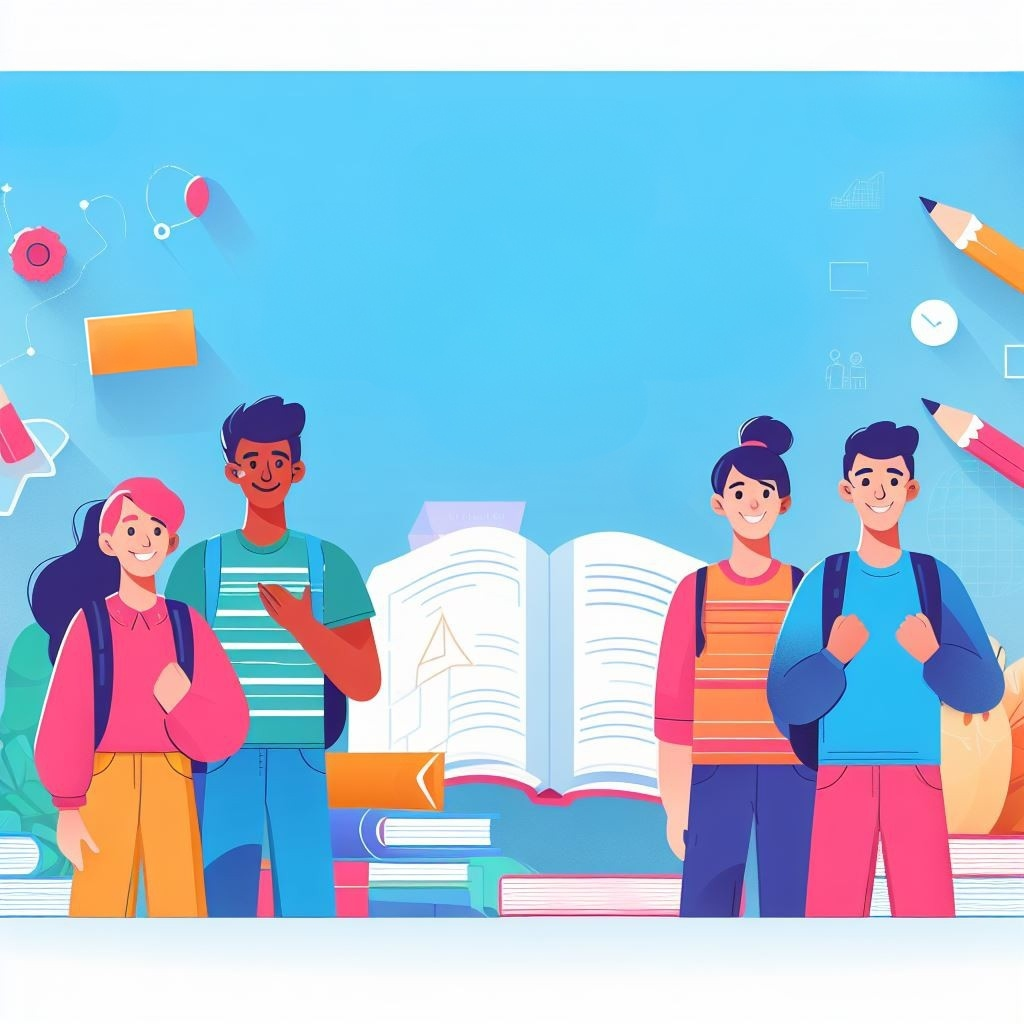
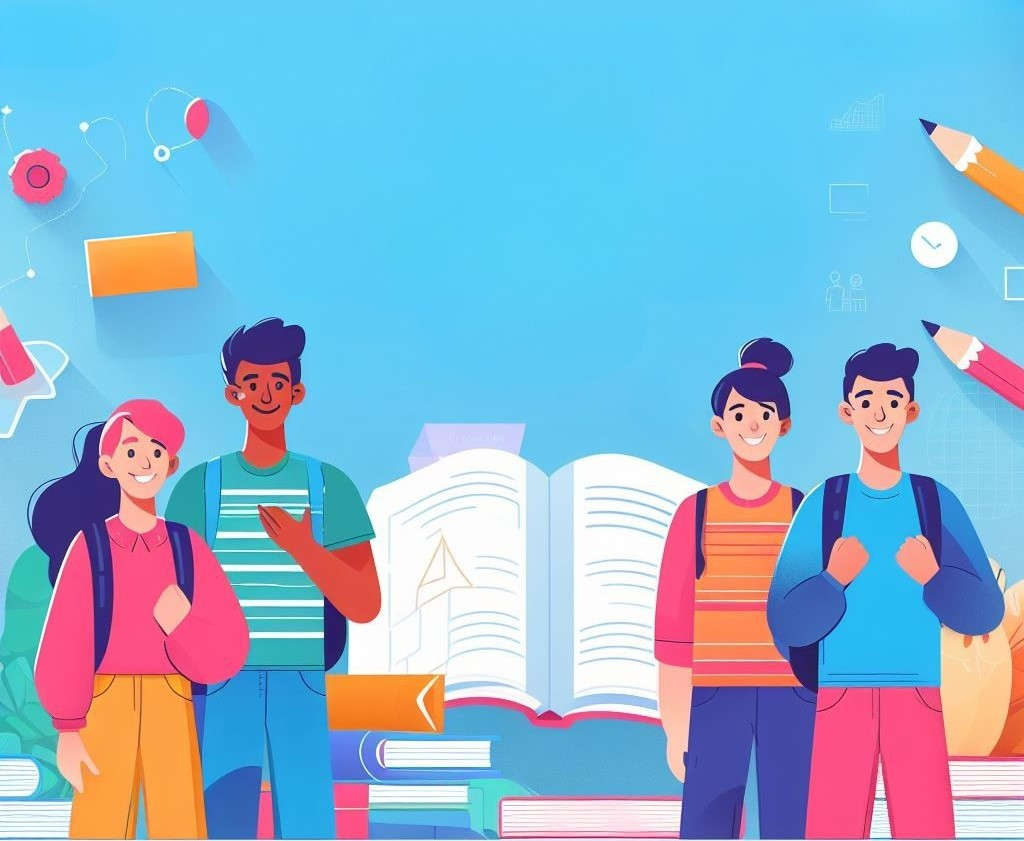
Created landing page

diff --git a/src/components/Home.jsx b/src/components/Home.jsx
@@ -1,0 +1,18 @@
+import home from '/images/home.jpg';
+
+const Home = () => {
+    return (
+        <div className="relative h-screen">
+
+            <img src={home} alt="home" className="absolute top-0 left-0 w-full h-full object-fill" />
+
+            <div className="absolute top-1/4 left-1/2 transform -translate-x-1/2 -translate-y-1/2 flex flex-col items-center text-center">
+                <h1 className="text-4xl md:text-5xl lg:text-6xl text-white font-extrabold">Study Streak</h1>
+                <p className="text-base md:text-lg lg:text-xl text-white font-medium mt-2">Your personal assistant for tracking and improving daily study habits</p>
+                <button className="text-base md:text-lg lg:text-xl text-white bg-rose-500 hover:bg-rose-600 py-2 px-4 rounded-3xl mt-4 font-medium">Get started</button>
+            </div>
+        </div>
+    );
+}
+
+export default Home;

diff --git a/src/App.jsx b/src/App.jsx
@@ -1,10 +1,11 @@
+import Home from './components/Home'
 import './index.css'
 
 function App() {
   
   return (
     <>
-      <h1>React App</h1>
+      <Home />
     </>
   )
 }
